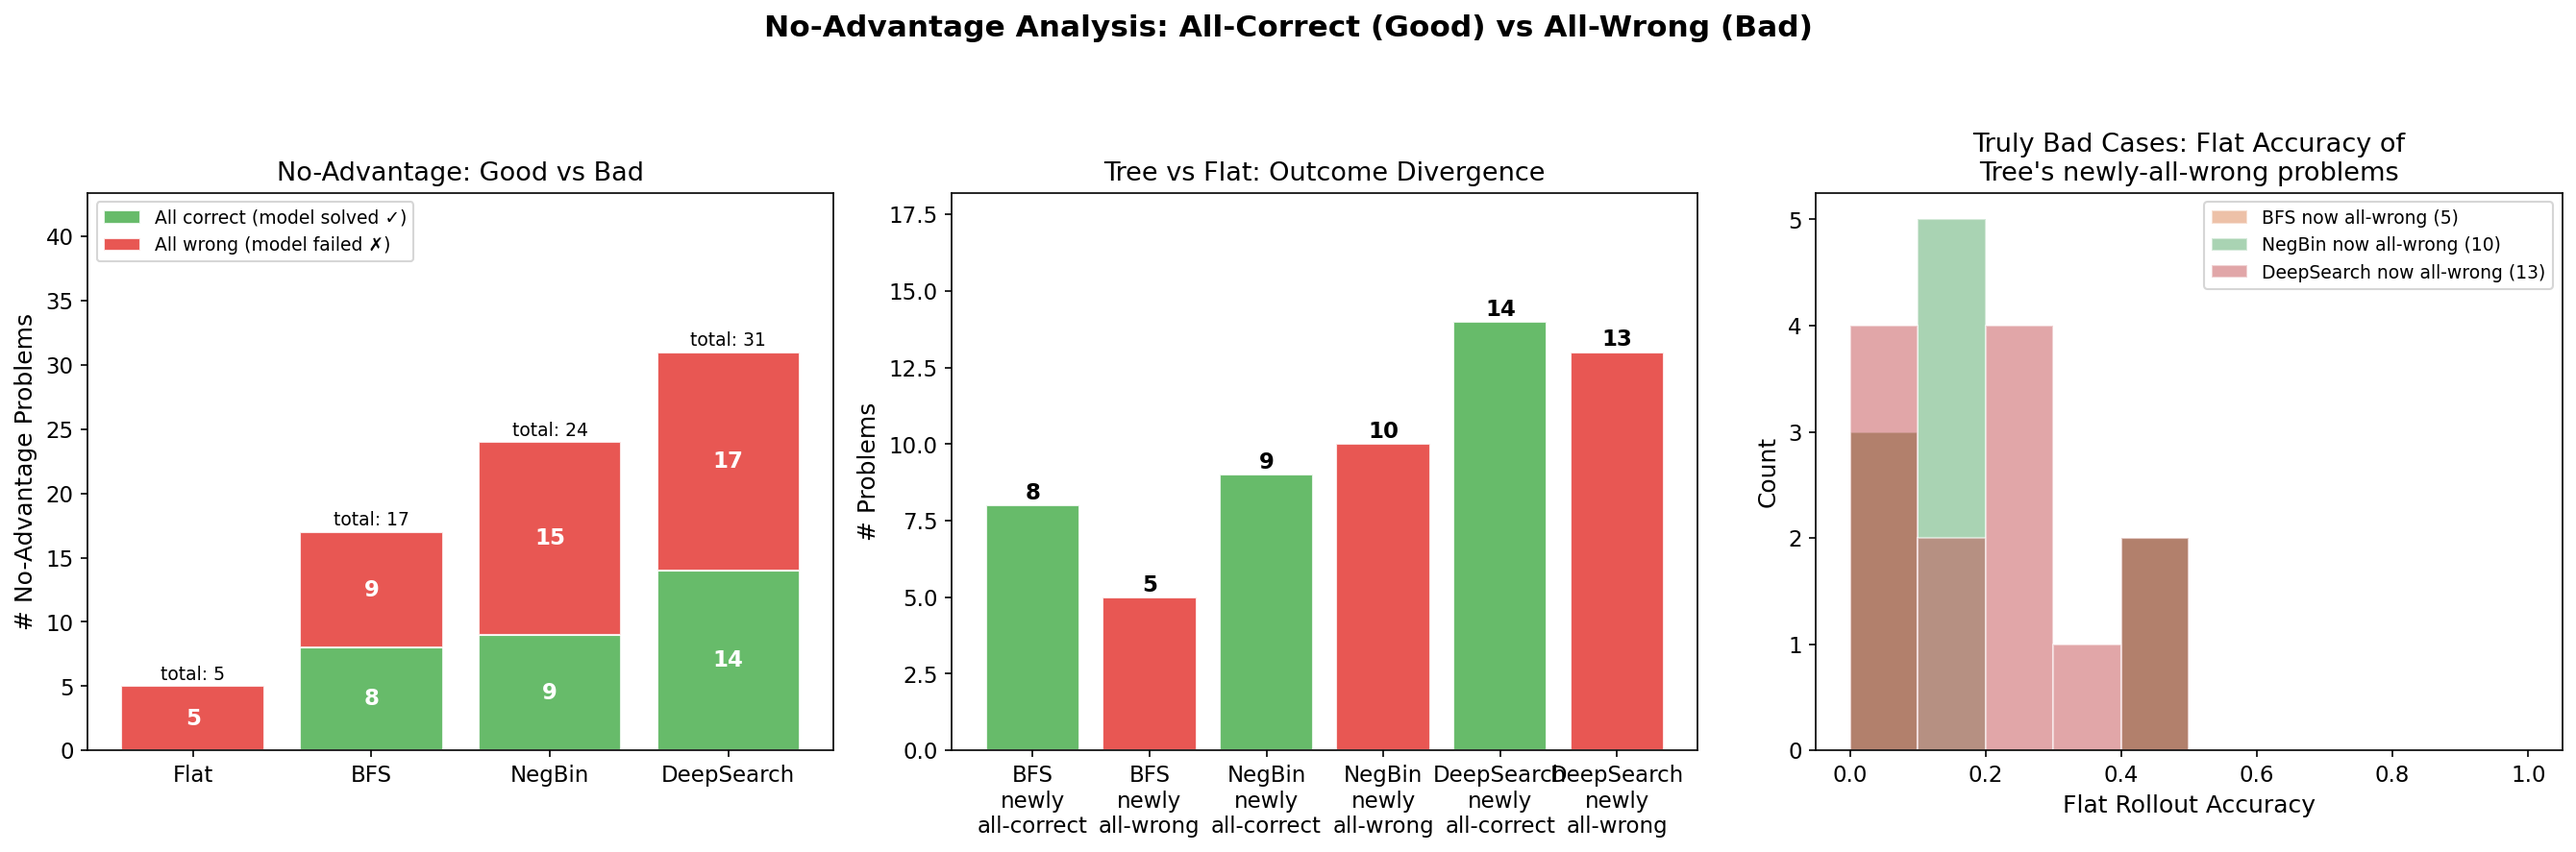
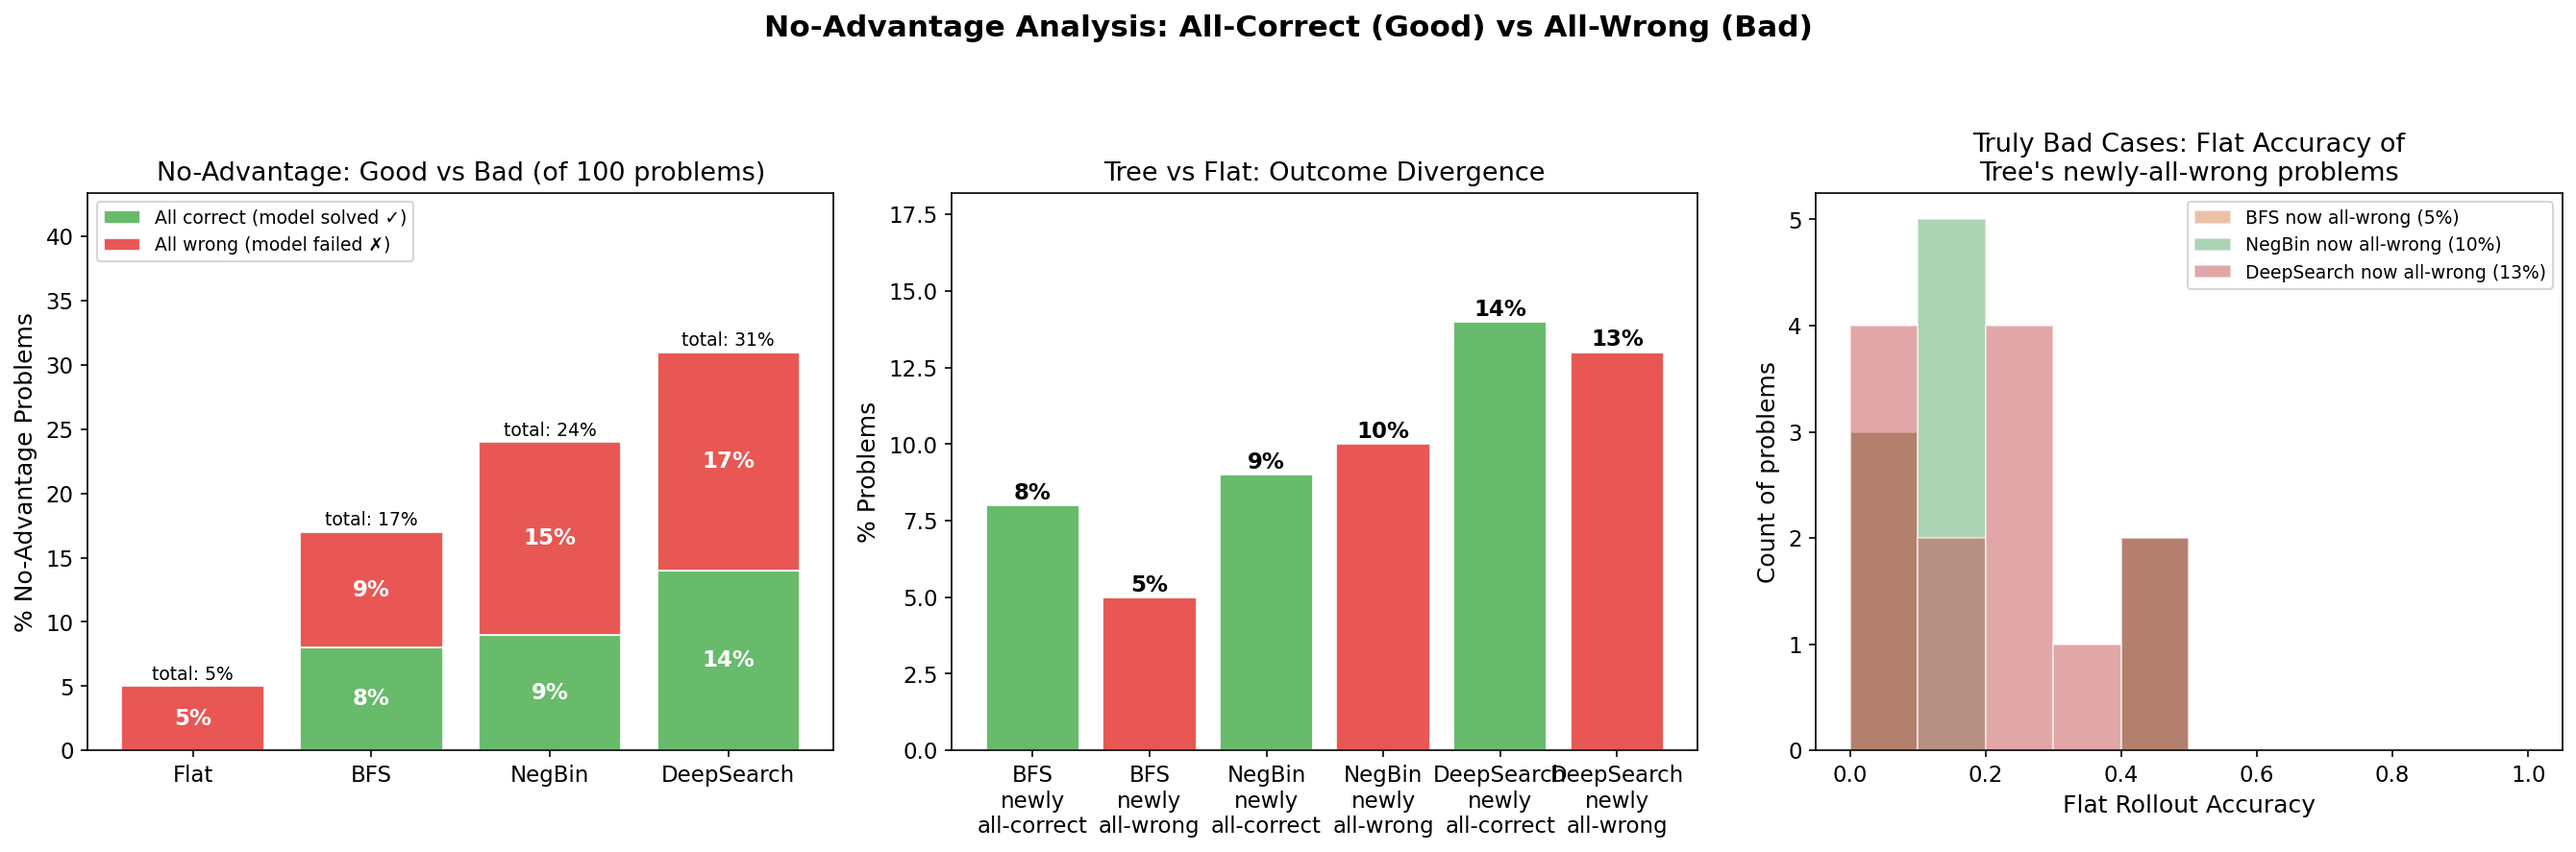
Display no-advantage counts as percentages
Raw counts (8, 15, 17…) made sense when n=100 but are harder to
compare across different problem counts and look more rigorous in
paper-ready figures as percentages. Updated
plot_no_advantage_analysis and the summary-table rows accordingly.

diff --git a/poisson_mcts/plot_advantage_comparison.py b/poisson_mcts/plot_advantage_comparison.py
@@ -253,32 +253,36 @@ def plot_no_advantage_analysis(results, out_dir):
     fig, axes = plt.subplots(1, 3, figsize=(18, 6))
 
     fa = get_accs(results, "flat")
+    n_problems = len(results)
     splits = {m[0]: split_no_adv(results, m[0]) for m in methods}
+
+    def pct(count):
+        return 100.0 * count / max(n_problems, 1)
 
     # Panel 1: stacked all-correct (green) + all-wrong (red) per method
     ax = axes[0]
     short_names = [m[3] for m in methods]
-    correct_counts = [int(splits[m[0]][0].sum()) for m in methods]
-    wrong_counts = [int(splits[m[0]][1].sum()) for m in methods]
+    correct_pcts = [pct(int(splits[m[0]][0].sum())) for m in methods]
+    wrong_pcts = [pct(int(splits[m[0]][1].sum())) for m in methods]
     x = np.arange(len(methods))
-    ax.bar(x, correct_counts, color="#4CAF50", alpha=0.85,
+    ax.bar(x, correct_pcts, color="#4CAF50", alpha=0.85,
            label="All correct (model solved ✓)", edgecolor="white")
-    ax.bar(x, wrong_counts, bottom=correct_counts, color="#E53935", alpha=0.85,
+    ax.bar(x, wrong_pcts, bottom=correct_pcts, color="#E53935", alpha=0.85,
            label="All wrong (model failed ✗)", edgecolor="white")
-    for i, (c, w) in enumerate(zip(correct_counts, wrong_counts)):
+    for i, (c, w) in enumerate(zip(correct_pcts, wrong_pcts)):
         if c > 0:
-            ax.text(i, c / 2, str(c), ha="center", va="center",
+            ax.text(i, c / 2, f"{c:.0f}%", ha="center", va="center",
                     fontsize=11, fontweight="bold", color="white")
         if w > 0:
-            ax.text(i, c + w / 2, str(w), ha="center", va="center",
+            ax.text(i, c + w / 2, f"{w:.0f}%", ha="center", va="center",
                     fontsize=11, fontweight="bold", color="white")
-        ax.text(i, c + w + 0.5, f"total: {c + w}", ha="center", fontsize=9)
+        ax.text(i, c + w + 0.5, f"total: {c + w:.0f}%", ha="center", fontsize=9)
     ax.set_xticks(x)
     ax.set_xticklabels(short_names)
-    ax.set_ylabel("# No-Advantage Problems")
-    ax.set_title("No-Advantage: Good vs Bad")
+    ax.set_ylabel("% No-Advantage Problems")
+    ax.set_title(f"No-Advantage: Good vs Bad (of {n_problems} problems)")
     ax.legend(fontsize=9, loc="upper left")
-    max_total = max(c + w for c, w in zip(correct_counts, wrong_counts)) or 5
+    max_total = max(c + w for c, w in zip(correct_pcts, wrong_pcts)) or 5
     ax.set_ylim(0, max_total * 1.4)
 
     # Panel 2: newly all-correct vs newly all-wrong per tree method
@@ -290,13 +294,14 @@ def plot_no_advantage_analysis(results, out_dir):
             continue
         corr, wrong = splits[key]
         cats.extend([f"{short}\nnewly\nall-correct", f"{short}\nnewly\nall-wrong"])
-        vals.extend([int((corr & ~f_corr).sum()), int((wrong & ~f_wrong).sum())])
+        vals.extend([pct(int((corr & ~f_corr).sum())),
+                     pct(int((wrong & ~f_wrong).sum()))])
         colors_bar.extend(["#4CAF50", "#E53935"])
     bars = ax.bar(cats, vals, color=colors_bar, alpha=0.85, edgecolor="white")
     for bar, v in zip(bars, vals):
         ax.text(bar.get_x() + bar.get_width() / 2, bar.get_height() + 0.2,
-                str(v), ha="center", fontsize=11, fontweight="bold")
-    ax.set_ylabel("# Problems")
+                f"{v:.0f}%", ha="center", fontsize=11, fontweight="bold")
+    ax.set_ylabel("% Problems")
     ax.set_title("Tree vs Flat: Outcome Divergence")
     ax.set_ylim(0, (max(vals) if vals else 1) * 1.3)
 
@@ -310,10 +315,10 @@ def plot_no_advantage_analysis(results, out_dir):
         newly_wrong = wrong & ~f_wrong
         if newly_wrong.sum() > 0:
             ax.hist(fa[newly_wrong], bins=bins, alpha=0.5, color=color,
-                    label=f"{short} now all-wrong ({int(newly_wrong.sum())})",
+                    label=f"{short} now all-wrong ({pct(int(newly_wrong.sum())):.0f}%)",
                     edgecolor="white")
     ax.set_xlabel("Flat Rollout Accuracy")
-    ax.set_ylabel("Count")
+    ax.set_ylabel("Count of problems")
     ax.set_title("Truly Bad Cases: Flat Accuracy of\nTree's newly-all-wrong problems")
     ax.legend(fontsize=9)
 
@@ -424,6 +429,7 @@ def plot_summary_table(results, out_dir):
         ma = get_accs(results, key)
         pearsons[key] = pearsonr(fa_list, ma)[0]
 
+    n_problems = len(results)
     rows = {
         "Mean Accuracy": [],
         "Mean #Trajectories": [],
@@ -440,8 +446,10 @@ def plot_summary_table(results, out_dir):
         correct, wrong = split_no_adv(results, key)
         rows["Mean Accuracy"].append(f"{accs.mean():.1%}")
         rows["Mean #Trajectories"].append(f"{n_traj.mean():.0f}")
-        rows["All-Correct ✓\n(model solved)"].append(f"{int(correct.sum())}")
-        rows["All-Wrong ✗\n(model failed)"].append(f"{int(wrong.sum())}")
+        rows["All-Correct ✓\n(model solved)"].append(
+            f"{100 * correct.sum() / n_problems:.0f}%")
+        rows["All-Wrong ✗\n(model failed)"].append(
+            f"{100 * wrong.sum() / n_problems:.0f}%")
         rows["Mean Tokens"].append(f"{toks.mean()/1000:.0f}K")
         if key == "flat":
             rows["Token Ratio\n(vs Flat)"].append("--")
